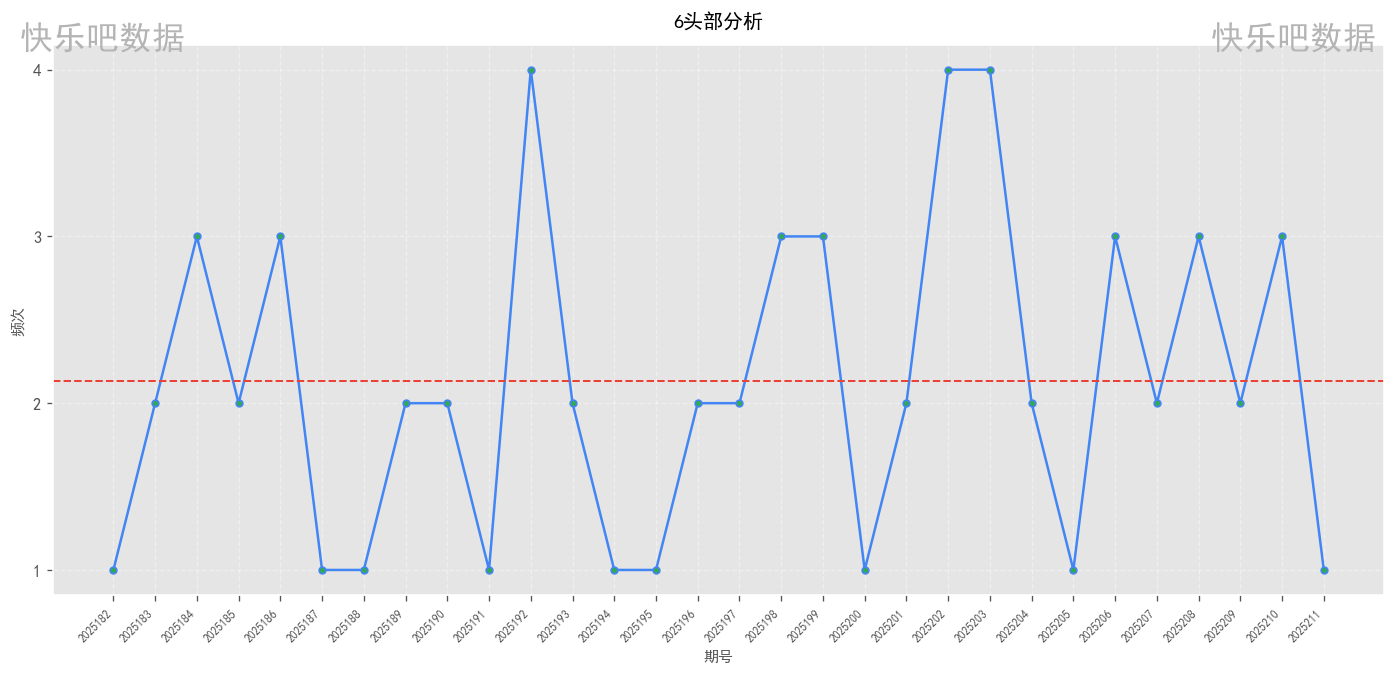
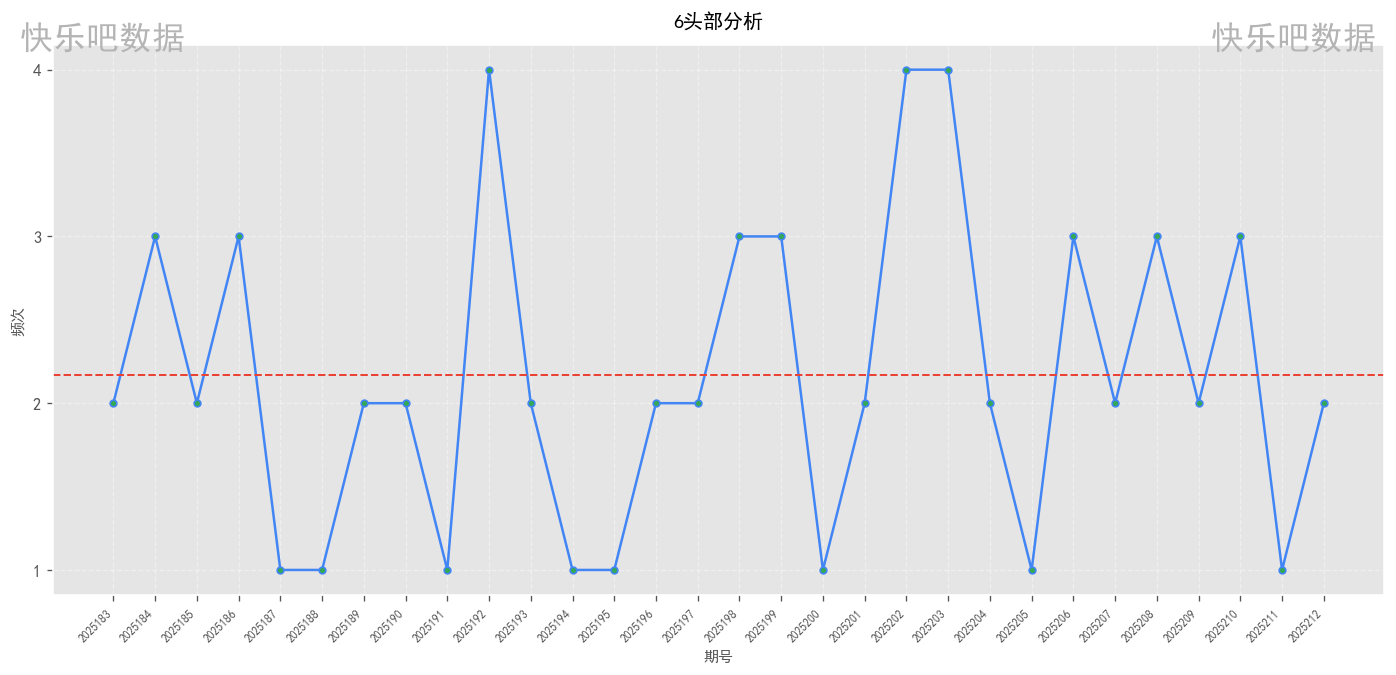
自动提交报告 20250810_2251

diff --git a/快乐8头号分析项目/数据报告/20250810/report.html b/快乐8头号分析项目/数据报告/20250810/report.html
@@ -440,7 +440,7 @@
                     <div class="label">头部区间</div>
                 </div>
                 <div class="overview-card">
-                    <div class="value">2025211</div>
+                    <div class="value">2025212</div>
                     <div class="label">最新期号</div>
                 </div>
                 <div class="overview-card">
@@ -464,11 +464,11 @@
             <div class="stats-summary">
                 <div class="stat-item">
                     <span class="stat-label">历史平均</span>
-                    <span class="stat-value">2.23</span>
+                    <span class="stat-value">2.13</span>
                 </div>
                 <div class="stat-item">
                     <span class="stat-label">近期平均</span>
-                    <span class="stat-value">2.00</span>
+                    <span class="stat-value">1.40</span>
                 </div>
                 <div class="stat-item">
                     <span class="stat-label">最高频次</span>
@@ -490,7 +490,7 @@
                 </div>
                 <div class="stat-item">
                     <span class="stat-label">近期平均</span>
-                    <span class="stat-value">2.20</span>
+                    <span class="stat-value">2.00</span>
                 </div>
                 <div class="stat-item">
                     <span class="stat-label">最高频次</span>
@@ -508,11 +508,11 @@
             <div class="stats-summary">
                 <div class="stat-item">
                     <span class="stat-label">历史平均</span>
-                    <span class="stat-value">2.43</span>
+                    <span class="stat-value">2.47</span>
                 </div>
                 <div class="stat-item">
                     <span class="stat-label">近期平均</span>
-                    <span class="stat-value">2.00</span>
+                    <span class="stat-value">2.20</span>
                 </div>
                 <div class="stat-item">
                     <span class="stat-label">最高频次</span>
@@ -530,11 +530,11 @@
             <div class="stats-summary">
                 <div class="stat-item">
                     <span class="stat-label">历史平均</span>
-                    <span class="stat-value">2.70</span>
+                    <span class="stat-value">2.63</span>
                 </div>
                 <div class="stat-item">
                     <span class="stat-label">近期平均</span>
-                    <span class="stat-value">3.40</span>
+                    <span class="stat-value">3.20</span>
                 </div>
                 <div class="stat-item">
                     <span class="stat-label">最高频次</span>
@@ -552,11 +552,11 @@
             <div class="stats-summary">
                 <div class="stat-item">
                     <span class="stat-label">历史平均</span>
-                    <span class="stat-value">2.30</span>
+                    <span class="stat-value">2.37</span>
                 </div>
                 <div class="stat-item">
                     <span class="stat-label">近期平均</span>
-                    <span class="stat-value">3.20</span>
+                    <span class="stat-value">3.80</span>
                 </div>
                 <div class="stat-item">
                     <span class="stat-label">最高频次</span>
@@ -596,7 +596,7 @@
             <div class="stats-summary">
                 <div class="stat-item">
                     <span class="stat-label">历史平均</span>
-                    <span class="stat-value">2.13</span>
+                    <span class="stat-value">2.17</span>
                 </div>
                 <div class="stat-item">
                     <span class="stat-label">近期平均</span>
@@ -618,15 +618,15 @@
             <div class="stats-summary">
                 <div class="stat-item">
                     <span class="stat-label">历史平均</span>
-                    <span class="stat-value">2.83</span>
+                    <span class="stat-value">2.90</span>
                 </div>
                 <div class="stat-item">
                     <span class="stat-label">近期平均</span>
-                    <span class="stat-value">2.40</span>
+                    <span class="stat-value">2.60</span>
                 </div>
                 <div class="stat-item">
                     <span class="stat-label">最高频次</span>
-                    <span class="stat-value">5</span>
+                    <span class="stat-value">6</span>
                 </div>
             </div>
         </div>
@@ -640,7 +640,7 @@
             <div class="stats-summary">
                 <div class="stat-item">
                     <span class="stat-label">历史平均</span>
-                    <span class="stat-value">0.27</span>
+                    <span class="stat-value">0.23</span>
                 </div>
                 <div class="stat-item">
                     <span class="stat-label">近期平均</span>
@@ -668,7 +668,7 @@
         <div class="disclaimer">
             <div class="disclaimer-title"><i class="fas fa-exclamation-circle"></i> 法律声明</div>
             <p>本分析报告基于中国福利彩票官网公开数据制作，仅供历史数据分析与参考，严禁用于赌博或任何违法违规用途。</p>
-            <p>根据中国法律，禁止向未成年人传播彩票相关信息。数据统计周期: 2025182期-2025211期 | 生成时间: 2025-08-10 00:28</p>
+            <p>根据中国法律，禁止向未成年人传播彩票相关信息。数据统计周期: 2025183期-2025212期 | 生成时间: 2025-08-10 22:51</p>
         </div>
 
         <!-- 操作按钮 -->

diff --git a/index.html b/index.html
@@ -51,7 +51,7 @@
                 立即查看今日报告
             </a>
         </p>
-        <p>生成时间: 2025-08-10 00:28</p>
+        <p>生成时间: 2025-08-10 22:51</p>
     </div>
 
     <script>
